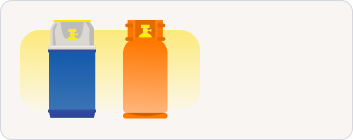
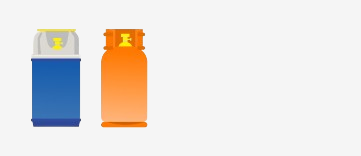
style(home): adjust image opacity in request gas widget
The opacity of the background image in the request gas widget has been set to 0.7 to improve visual clarity and user experience. This change does not affect the functionality but enhances the overall design.

diff --git a/lib/features/client/home/components/request_gas.dart b/lib/features/client/home/components/request_gas.dart
@@ -36,6 +36,7 @@ class RequestGasWidget extends StatelessWidget {
                 : Assets.images.homeDistribution.path,
             ),
             fit: BoxFit.cover,
+            opacity: .7
           ),
         ),
         child: Column(
